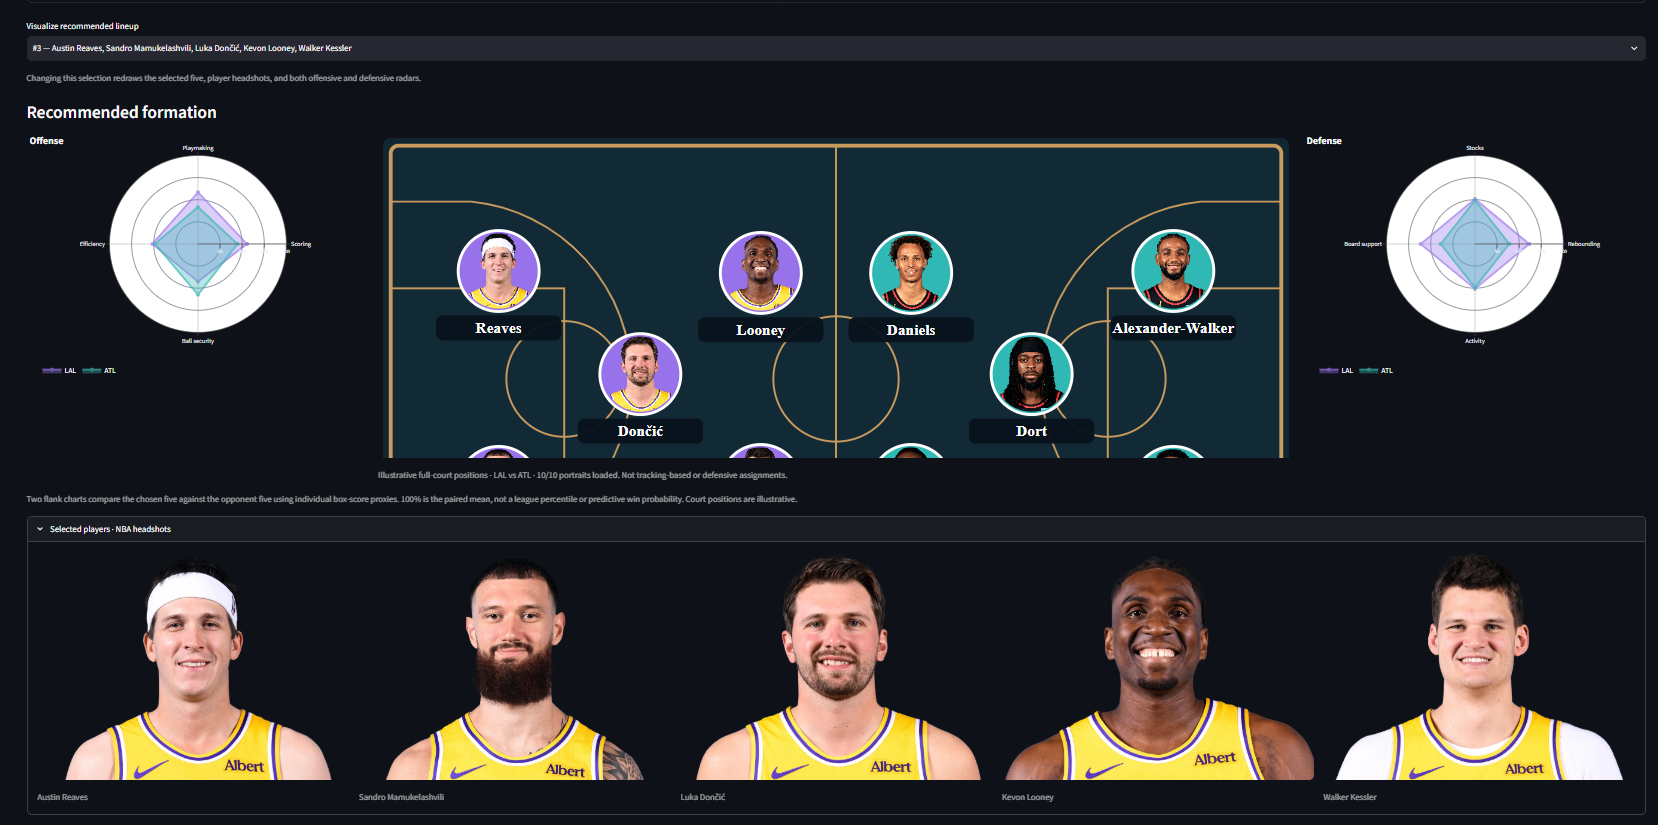
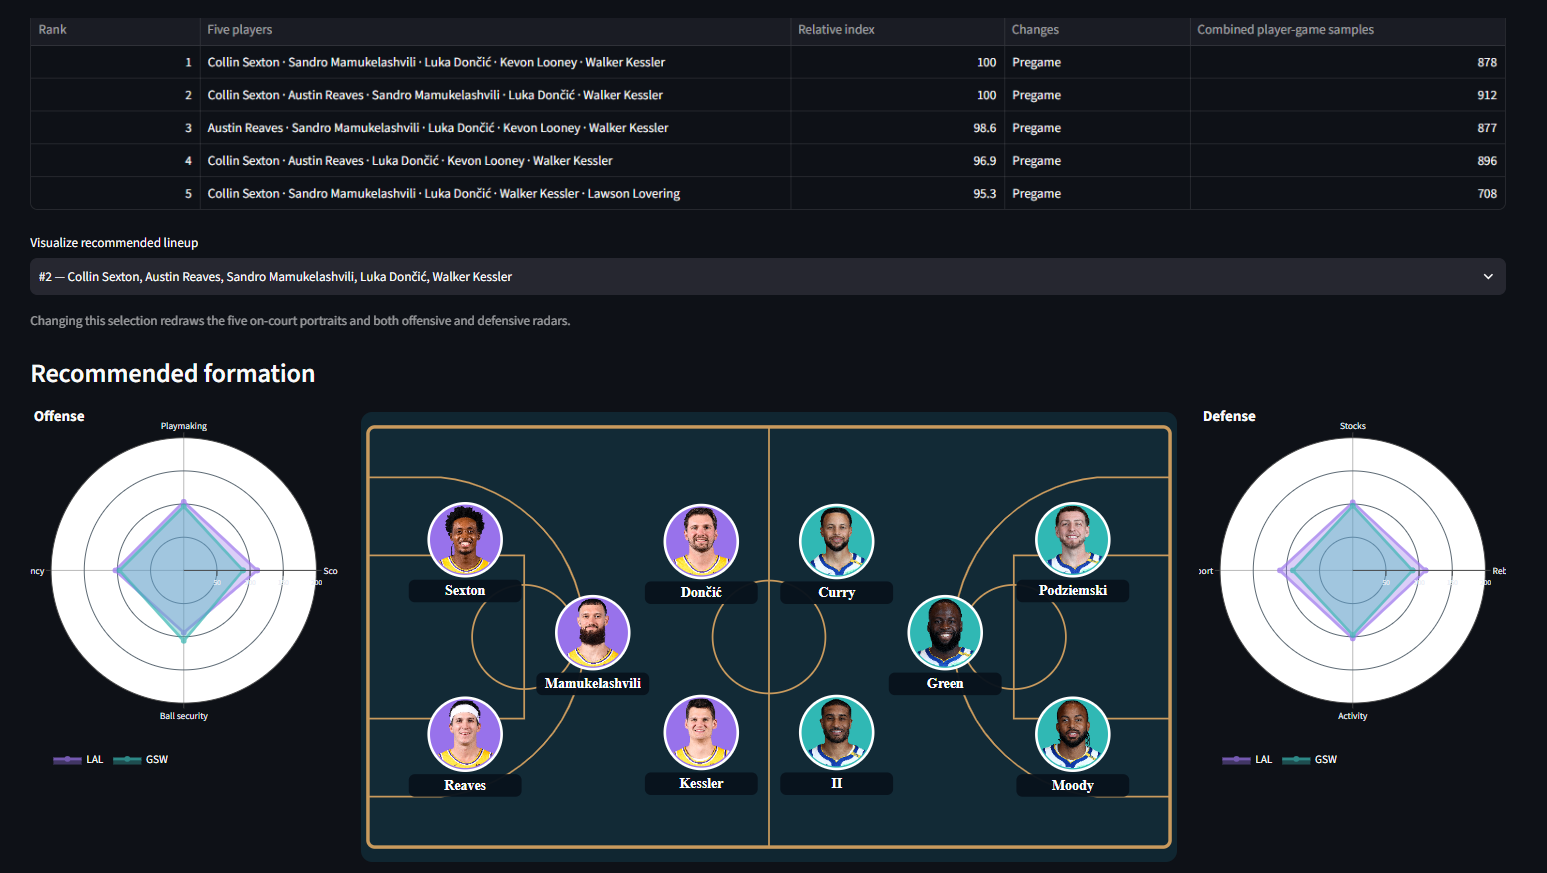
docs: refresh dashboard screenshots and compact README gallery

diff --git a/README.md b/README.md
@@ -12,7 +12,12 @@
 
 </div>
 
+<details>
+<summary><strong>How the platform works — data architecture</strong></summary>
+
 ![Project architecture](assets/architecture.svg)
+
+</details>
 
 ## Overview
 
@@ -22,31 +27,48 @@ NBA Decision Intelligence is an independently developed **sports analytics portf
 
 > **Research status:** The 5v5 rankings are experimental, based primarily on historical box-score proxies. The lineup-reconstruction audits are internal consistency checks, **not independent certification** of historical stints, matchup impact, or real-time substitution recommendations.
 
-## Product walkthrough
+## Explore the dashboard
 
-### 🧑💻 Player Analysis
+### Player Analysis
 
-Explore career production and game logs for a selected roster player **across previous teams**. The profile includes an NBA 2K27-inspired card and sourced OVR values where present in the local cache. The OVR is *not* inferred from box scores.
+Unified player profiles combine career box scores, performance trends and a **2K27-inspired roster card** with an externally sourced OVR where available. Player records are matched by NBA player ID across franchises.
 
-![Player profile with sourced OVR](assets/player-analysis.png)
+![NBA Decision Intelligence player analysis](assets/player-analysis.png)
 
-### 🎯 Historical Shooting
+### 5v5 Decision Center
 
-Inspect available individual shot attempts, court charts, and spatial shooting patterns. **Shot-event coverage can differ from box-score coverage**; the app explicitly marks uncollected seasons instead of treating missing attempts as misses.
+Compare hypothetical five-player units with a full-court portrait visualization. The relative indexes and radar graphics are **experimental box-score heuristics**, not verified matchup predictions.
 
-![Historical shooting example](assets/shooting-analysis.png)
+![5v5 lineup recommendations and full-court formation](assets/decision-center.png)
 
-### 🏟 5v5 Decision Center
+<details>
+<summary><strong>Explore more visuals — shooting, team comparison, and roster</strong></summary>
 
-Select a team and opponent, review ranked candidate five-player units, and visualize both lineups on a court with player portraits and side-by-side offense/defense indicators. Recommendations are relative **decision-support heuristics**, not verified predictive win probabilities.
+#### Shot density heatmap
 
-![Five-on-five decision visualization](assets/decision-center.png)
+Brighter regions indicate **more shot attempts**, not higher shooting accuracy.
 
-### 📋 Roster Manager
+![Historical shooting density heatmap](assets/shooting-heatmap.png)
 
-Browse the 2026–27 roster snapshot, player headshots, and sortable box-score summaries (minutes, points, rebounds, assists). Membership and availability should be checked against current official sources before using a lineup recommendation.
+#### Shot location chart
+
+Makes and misses plotted on the basketball court for available player shot events.
+
+![Historical player shot chart](assets/shooting-shot-chart.png)
+
+#### Team offense and defense comparisons
+
+Descriptive team-level comparisons using box-score production and defensive-activity proxies.
+
+![Offense and defense comparison between teams](assets/team-comparison.png)
+
+#### 2026–27 Roster Manager
+
+Explore roster snapshots and sortable player statistics (minutes, points, rebounds, assists). The roster is not a live availability or injury feed.
 
 ![Roster manager](assets/roster-manager.png)
+
+</details>
 
 ## Tech stack
 
